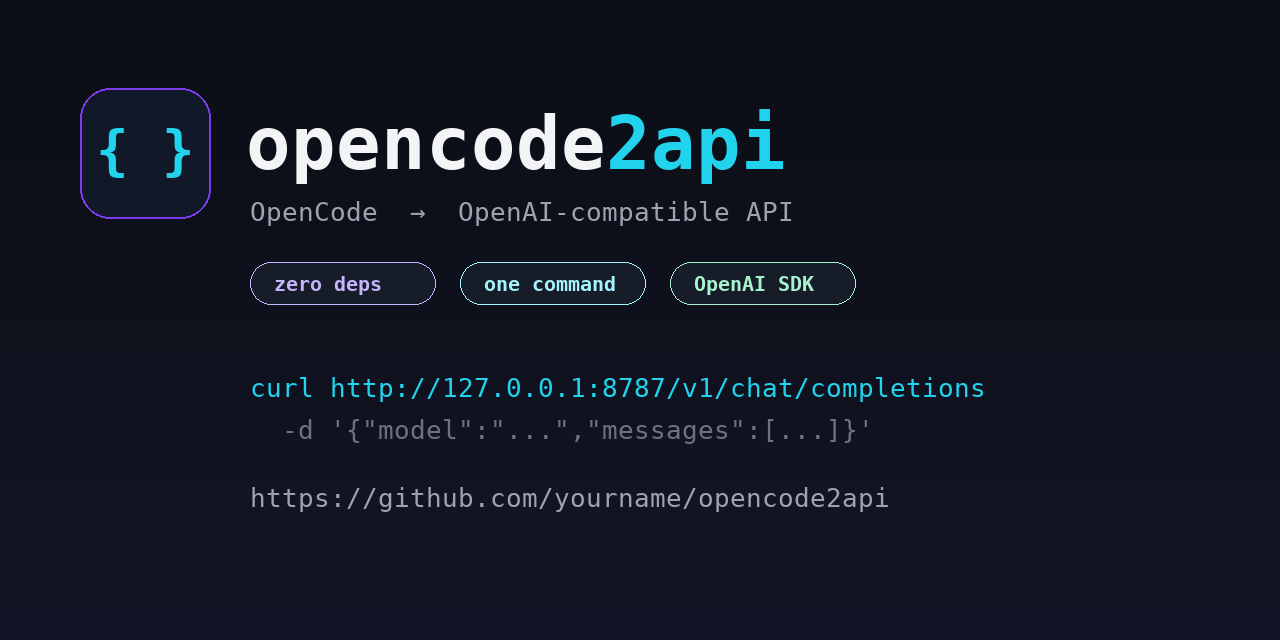
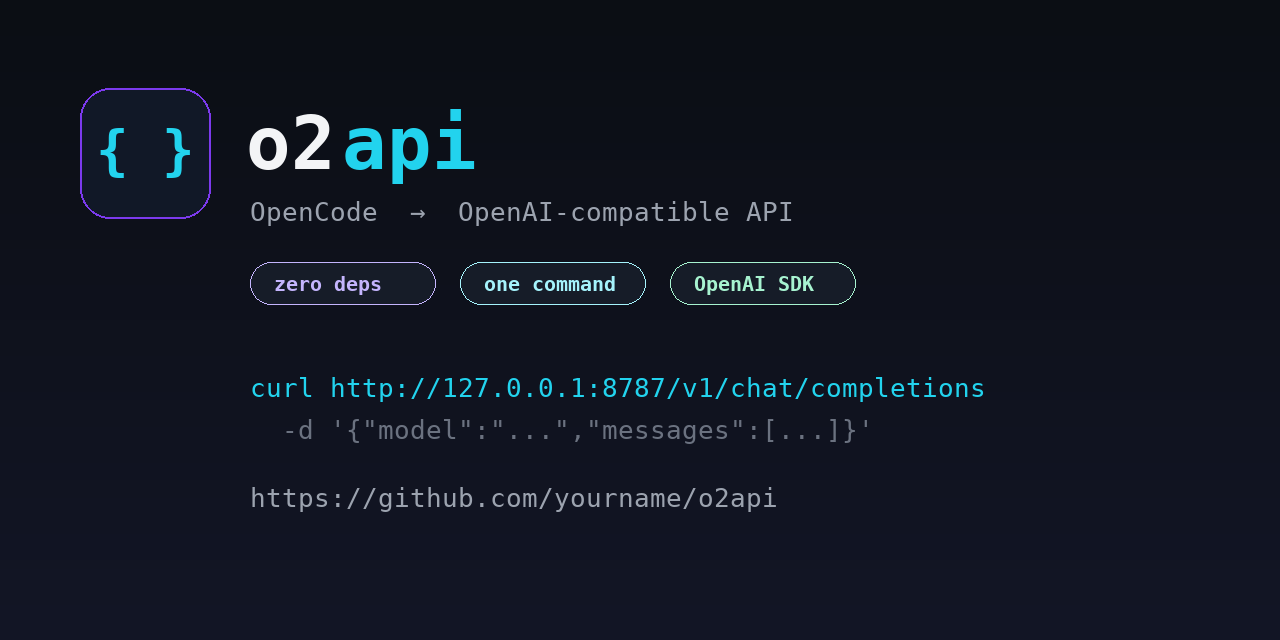
refactor: rename project to o2api (npm name available, less crowded)

Changed region(s): [[0.2188, 0.1562, 0.625, 0.2812], [0.5625, 0.75, 0.6875, 0.8125]]

diff --git a/assets/make-demo.py b/assets/make-demo.py
@@ -28,7 +28,7 @@ def window(draw):
     for i, color in enumerate(["#FF5F57", "#FEBC2E", "#28C840"]):
         cx = 44 + i * 22
         draw.ellipse([cx - 6, 38, cx + 6, 50], fill=color)
-    draw.text((130, 34), "opencode2api — zsh", font=ft, fill=DIM)
+    draw.text((130, 34), "o2api — zsh", font=ft, fill=DIM)
 
 
 def line(draw, y, parts, x=40):
@@ -38,7 +38,7 @@ def line(draw, y, parts, x=40):
 
 
 LINES = [
-    [("$ ", fb, GREEN), ("opencode2api", fb, WHITE)],
+    [("$ ", fb, GREEN), ("o2api", fb, WHITE)],
     [("  ➜ ", f, GREEN), ("Local     ", f, GRAY), ("http://127.0.0.1:8787/v1", f, CYAN)],
     [("  ➜ ", f, GREEN), ("Upstream  ", f, GRAY), ("http://127.0.0.1:49374", f, CYAN)],
     [("  ➜ ", f, GREEN), ("Auth      ", f, GRAY), ("open (localhost only)", f, YELLOW)],
@@ -113,8 +113,8 @@ d.rounded_rectangle([80, 88, 210, 218], radius=30, fill="#111827", outline="#7C3
 mw = d.textlength("{ }", font=mark)
 d.text((145 - mw / 2, 118), "{ }", font=mark, fill=CYAN)
 
-d.text((246, 100), "opencode", font=big, fill=WHITE)
-d.text((246 + d.textlength("opencode", font=big), 100), "2api", font=big, fill=CYAN)
+d.text((246, 100), "o2", font=big, fill=WHITE)
+d.text((246 + d.textlength("o2", font=big) + 6, 100), "api", font=big, fill=CYAN)
 d.text((250, 196), "OpenCode  →  OpenAI-compatible API", font=sub, fill=GRAY)
 
 for i, (label, color) in enumerate([("zero deps", "#C4B5FD"), ("one command", "#A5F3FC"), ("OpenAI SDK", "#A7F3D0")]):
@@ -124,7 +124,7 @@ for i, (label, color) in enumerate([("zero deps", "#C4B5FD"), ("one command", "#
 
 d.text((250, 372), "curl http://127.0.0.1:8787/v1/chat/completions", font=sub, fill=CYAN)
 d.text((250, 414), '  -d \'{"model":"...","messages":[...]}\'', font=sub, fill=DIM)
-d.text((250, 482), "https://github.com/yourname/opencode2api", font=sub, fill=GRAY)
+d.text((250, 482), "https://github.com/yourname/o2api", font=sub, fill=GRAY)
 
 img.save("/root/opencode-bridge/assets/social.png", optimize=True)
 print("wrote assets/social.png")

diff --git a/examples/python.py b/examples/python.py
@@ -1,4 +1,4 @@
-"""opencode2api — Python (OpenAI SDK) example.
+"""o2api — Python (OpenAI SDK) example.
 
     pip install openai
     python examples/python.py

diff --git a/README.md b/README.md
@@ -1,8 +1,8 @@
 <div align="center">
 
-<img src="assets/banner.svg" alt="opencode2api banner" width="100%" />
+<img src="assets/banner.svg" alt="o2api banner" width="100%" />
 
-<h1>opencode2api</h1>
+<h1>o2api</h1>
 
 <p><strong>Use <a href="https://opencode.ai">OpenCode</a> as an OpenAI-compatible API.</strong><br/>
 One command. Zero dependencies. Your existing tools just work.</p>
@@ -10,12 +10,12 @@ One command. Zero dependencies. Your existing tools just work.</p>
 [![License: MIT](https://img.shields.io/badge/License-MIT-22D3EE.svg?style=for-the-badge)](LICENSE)
 [![Node](https://img.shields.io/badge/Node-%E2%89%A522-34D399.svg?style=for-the-badge&logo=node.js&logoColor=white)](https://nodejs.org)
 [![Dependencies](https://img.shields.io/badge/dependencies-0-7C3AED.svg?style=for-the-badge)](package.json)
-[![PRs Welcome](https://img.shields.io/badge/PRs-welcome-FF69B4.svg?style=for-the-badge)](https://github.com/yourname/opencode2api/pulls)
+[![PRs Welcome](https://img.shields.io/badge/PRs-welcome-FF69B4.svg?style=for-the-badge)](https://github.com/yourname/o2api/pulls)
 [![OpenAI compatible](https://img.shields.io/badge/OpenAI-compatible-F59E0B.svg?style=for-the-badge)](https://platform.openai.com/docs/api-reference)
 
 <br/>
 
-<img src="assets/demo.gif" alt="opencode2api demo" width="760" />
+<img src="assets/demo.gif" alt="o2api demo" width="760" />
 
 <br/>
 <br/>
@@ -28,7 +28,7 @@ One command. Zero dependencies. Your existing tools just work.</p>
 
 ## ✨ What is this?
 
-`opencode2api` puts a clean, OpenAI-compatible HTTP API in front of a **real, running OpenCode
+`o2api` puts a clean, OpenAI-compatible HTTP API in front of a **real, running OpenCode
 server**. It does not impersonate anything: it uses OpenCode's own HTTP API (sessions, prompts,
 messages), so requests genuinely originate from the OpenCode client on your machine.
 
@@ -37,7 +37,7 @@ messages), so requests genuinely originate from the OpenCode client on your mach
           │  POST /v1/chat/completions
           ▼
    ┌─────────────────┐
-   │  opencode2api   │  ← this project (single file, no deps)
+   │  o2api   │  ← this project (single file, no deps)
    └────────┬────────┘
             │  OpenCode HTTP API (Basic auth)
             ▼
@@ -62,7 +62,7 @@ without writing glue code.
 
 | | Feature | Detail |
 |---|---|---|
-| ⚡ | **One command** | `npx opencode2api` — no build, no install, no config file |
+| ⚡ | **One command** | `npx o2api` — no build, no install, no config file |
 | 🪶 | **Zero dependencies** | Only Node built-ins (`http`, `fs`, `path`) and global `fetch` |
 | 🔌 | **OpenAI-compatible** | Chat Completions, streaming SSE, `usage`, `finish_reason`, `[DONE]` |
 | 🧠 | **All your models** | Whatever OpenCode exposes — free, Go, BYOK, Ollama, vLLM |
@@ -85,21 +85,21 @@ without writing glue code.
 ### 2. Run it
 
 ```bash
-npx opencode2api
+npx o2api
 ```
 
 or from a clone:
 
 ```bash
-git clone https://github.com/yourname/opencode2api.git
-cd opencode2api
+git clone https://github.com/yourname/o2api.git
+cd o2api
 node server.mjs
 ```
 
 You'll see:
 
 ```text
-  opencode2api v1.0.0
+  o2api v1.0.0
   OpenCode → OpenAI-compatible API
 
   ➜ Local     http://127.0.0.1:8787/v1
@@ -136,20 +136,20 @@ curl -s http://127.0.0.1:8787/v1/chat/completions \
 
 ## 🧞 One-command alias
 
-Install once, then it's just `opencode2api` everywhere:
+Install once, then it's just `o2api` everywhere:
 
 ```bash
-./install.sh          # symlinks /usr/local/bin/opencode2api
+./install.sh          # symlinks /usr/local/bin/o2api
 # or
 npm i -g .            # global npm bin
 # or, no install at all:
-echo "alias opencode2api='node $PWD/server.mjs'" >> ~/.zshrc && source ~/.zshrc
+echo "alias o2api='node $PWD/server.mjs'" >> ~/.zshrc && source ~/.zshrc
 ```
 
 Then:
 
 ```bash
-opencode2api --port 8080 --key sk-local
+o2api --port 8080 --key sk-local
 ```
 
 ---
@@ -258,7 +258,7 @@ Flags win over environment variables. Every setting has both.
 | `--password` | `OPENCODE_PASSWORD` | `service.json` | OpenCode service password |
 
 ```bash
-opencode2api --help
+o2api --help
 ```
 
 ---
@@ -268,7 +268,7 @@ opencode2api --help
 ```mermaid
 sequenceDiagram
     participant C as Client (SDK/curl)
-    participant B as opencode2api
+    participant B as o2api
     participant O as OpenCode server
     participant M as Model provider
 
@@ -388,8 +388,8 @@ PRs welcome — keep the dependency count at zero. 🧡
 ## 🤝 Contributing
 
 ```bash
-git clone https://github.com/yourname/opencode2api.git
-cd opencode2api
+git clone https://github.com/yourname/o2api.git
+cd o2api
 node --check server.mjs   # syntax
 node server.mjs --help    # smoke
 ```
@@ -410,8 +410,8 @@ OpenCode itself is a separate project with its own license and terms of service.
 
 **If this saved you an afternoon, a ⭐ helps other people find it.**
 
-<a href="https://github.com/yourname/opencode2api/stargazers">⭐ Star</a> ·
-<a href="https://github.com/yourname/opencode2api/issues">🐛 Issues</a> ·
-<a href="https://github.com/yourname/opencode2api/discussions">💬 Discussions</a>
+<a href="https://github.com/yourname/o2api/stargazers">⭐ Star</a> ·
+<a href="https://github.com/yourname/o2api/issues">🐛 Issues</a> ·
+<a href="https://github.com/yourname/o2api/discussions">💬 Discussions</a>
 
 </div>

diff --git a/README.tr.md b/README.tr.md
@@ -1,8 +1,8 @@
 <div align="center">
 
-<img src="assets/banner.svg" alt="opencode2api" width="100%" />
+<img src="assets/banner.svg" alt="o2api" width="100%" />
 
-<h1>opencode2api</h1>
+<h1>o2api</h1>
 
 <p><strong>OpenCode'u OpenAI-uyumlu bir API'ye çevir.</strong><br/>
 Tek komut. Sıfır bağımlılık. Mevcut araçların olduğu gibi çalışır.</p>
@@ -23,7 +23,7 @@ Taklit yok: OpenCode'un kendi API'sini (session, prompt, message) kullanır.
           │  POST /v1/chat/completions
           ▼
    ┌─────────────────┐
-   │  opencode2api   │  ← tek dosya, bağımlılık yok
+   │  o2api   │  ← tek dosya, bağımlılık yok
    └────────┬────────┘
             │  OpenCode HTTP API (Basic auth)
             ▼
@@ -41,15 +41,15 @@ Taklit yok: OpenCode'un kendi API'sini (session, prompt, message) kullanır.
 **Gereksinim:** OpenCode v2 çalışıyor + Node.js ≥ 22
 
 ```bash
-npx opencode2api
+npx o2api
 # ➜ http://127.0.0.1:8787/v1
 ```
 
 veya:
 
 ```bash
-git clone https://github.com/yourname/opencode2api.git
-cd opencode2api && node server.mjs
+git clone https://github.com/yourname/o2api.git
+cd o2api && node server.mjs
 ```
 
 İlk istek:
@@ -76,15 +76,15 @@ print(client.chat.completions.create(
 ## 🧞 Tek komut (alias)
 
 ```bash
-./install.sh                                    # /usr/local/bin/opencode2api
+./install.sh                                    # /usr/local/bin/o2api
 npm i -g .                                      # global npm
-echo "alias opencode2api='node $PWD/server.mjs'" >> ~/.bashrc   # alias
+echo "alias o2api='node $PWD/server.mjs'" >> ~/.bashrc   # alias
 ```
 
 Sonrası:
 
 ```bash
-opencode2api --port 8080 --key sk-local
+o2api --port 8080 --key sk-local
 ```
 
 ---
@@ -113,7 +113,7 @@ opencode2api --port 8080 --key sk-local
 | `--password` | `OPENCODE_PASSWORD` | `service.json` | Servis şifresi |
 
 ```bash
-opencode2api --help
+o2api --help
 ```
 
 ---

diff --git a/examples/integrations.md b/examples/integrations.md
@@ -40,7 +40,7 @@ new OpenAI({ baseURL: "http://127.0.0.1:8787/v1", apiKey: "not-needed" });
 If the tool runs in Docker or on another machine:
 
 ```bash
-opencode2api --host 0.0.0.0 --key "$(openssl rand -hex 24)"
+o2api --host 0.0.0.0 --key "$(openssl rand -hex 24)"
 ```
 
 Then use `http://<your-lan-ip>:8787/v1` and send the key as a bearer token.
